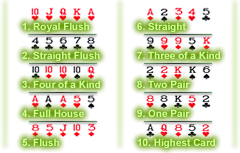
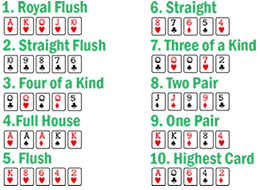
new handranking image

diff --git a/PokerFace/PokerFace/src/ch/hearc/pokerface/gui/gamescreen/table/JPanelGameControl.java b/PokerFace/PokerFace/src/ch/hearc/pokerface/gui/gamescreen/table/JPanelGameControl.java
@@ -224,11 +224,6 @@ public class JPanelGameControl extends JPanel
 		moneySlider.setPreferredSize(new Dimension(60, 150));
 		allinButton.setMargin(new Insets(10, 10, 10, 10));
 
-		JPanel handRankingPanel = new JPanel();
-		handRankingPanel.setLayout(new BorderLayout());
-		handRankingPanel.setOpaque(false);
-		handRankingPanel.add(new JLabel(ImageShop.ICON_HANDRANKING), BorderLayout.CENTER);
-
 		Box boxButtons = Box.createVerticalBox();
 		boxButtons.add(Box.createVerticalGlue());
 		boxButtons.add(allinButton);
@@ -265,7 +260,7 @@ public class JPanelGameControl extends JPanel
 		panelGridRight.add(scrollPane);
 		panelGridRight.add(statisticsPanel);
 
-		add(handRankingPanel, BorderLayout.WEST);
+		add(new JLabel(ImageShop.ICON_HANDRANKING), BorderLayout.WEST);
 		add(panelGridRight, BorderLayout.CENTER);
 
 	}
